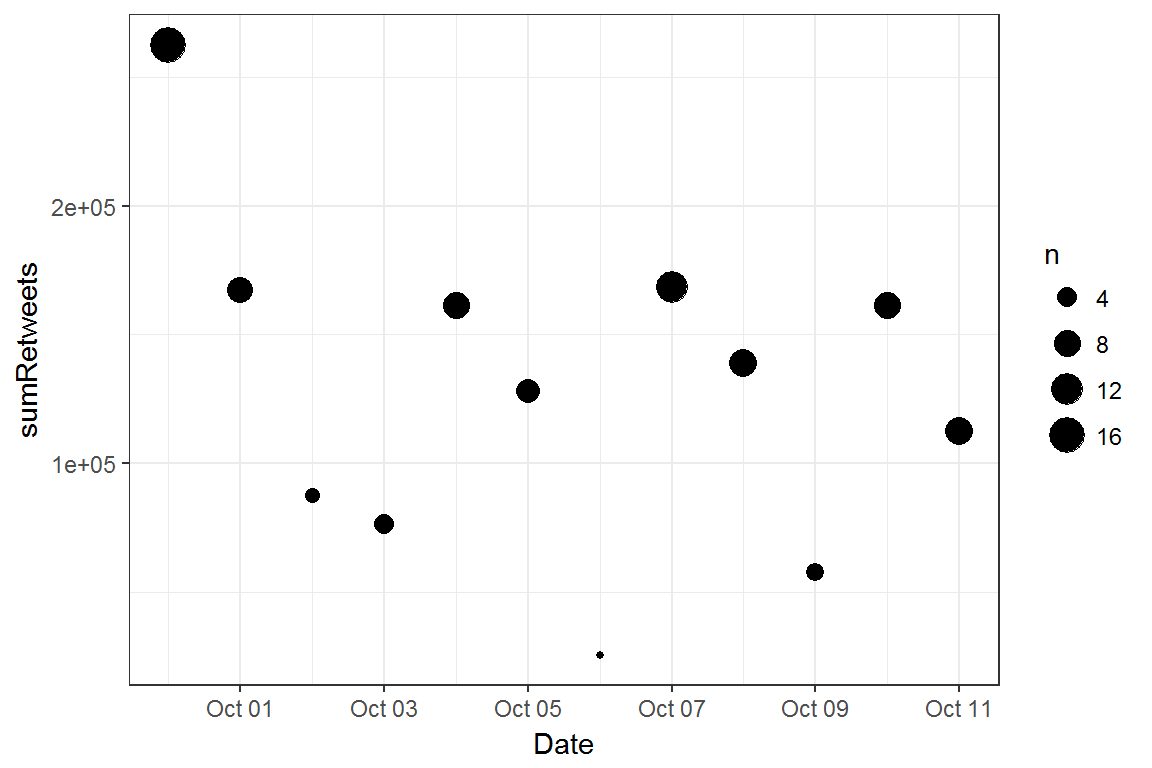
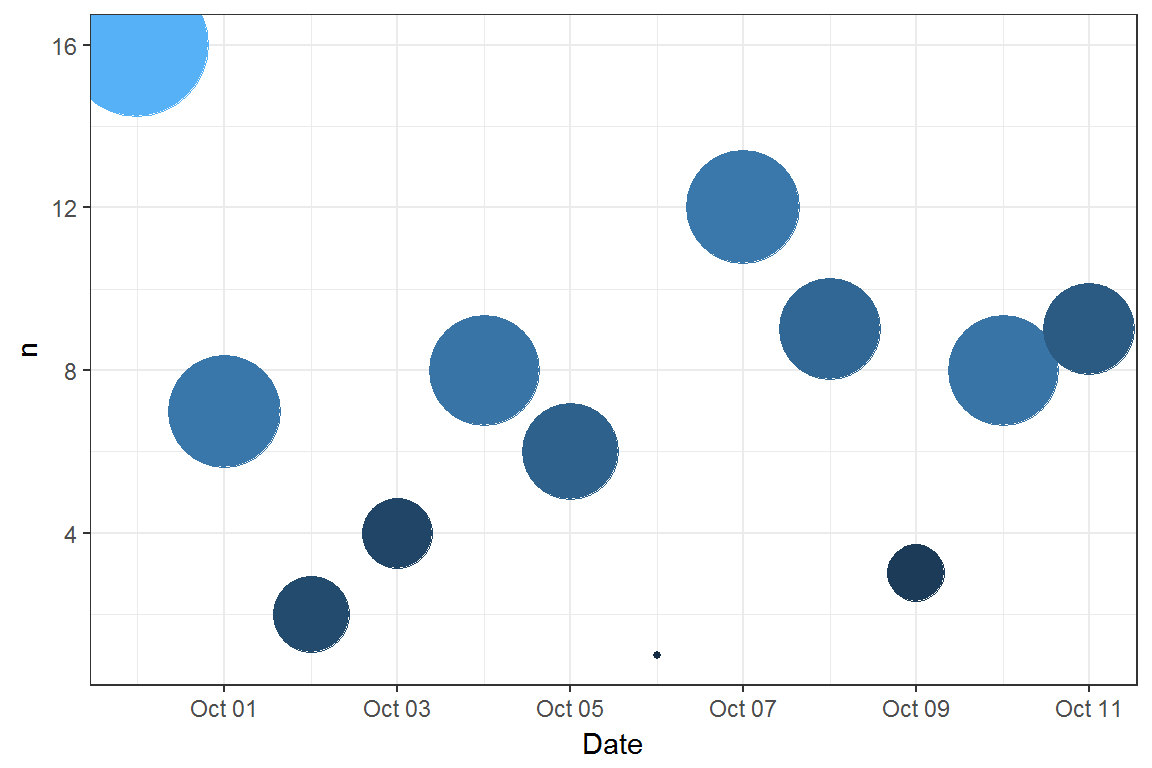
got rid of legend

diff --git a/Twitter.html b/Twitter.html
@@ -220,32 +220,32 @@ $(document).ready(function () {
 <tr class="odd">
 <td align="left">2017-10-11 13:55:44</td>
 <td align="left">With all of the Fake News coming out of NBC and the Networks, at what point is it appropriate to challenge their License? Bad for country!</td>
-<td align="right">13514</td>
+<td align="right">14271</td>
 </tr>
 <tr class="even">
 <td align="left">2017-10-11 13:45:22</td>
 <td align="left">Fake <span class="citation">@NBCNews</span> made up a story that I wanted a “tenfold” increase in our U.S. nuclear arsenal. Pure fiction, made up to demean. NBC = CNN!</td>
-<td align="right">11535</td>
+<td align="right">12072</td>
 </tr>
 <tr class="odd">
 <td align="left">2017-10-11 10:47:10</td>
 <td align="left">It is about time that Roger Goodell of the NFL is finally demanding that all players STAND for our great National Anthem-RESPECT OUR COUNTRY</td>
-<td align="right">13812</td>
+<td align="right">14255</td>
 </tr>
 <tr class="even">
 <td align="left">2017-10-11 10:36:37</td>
 <td align="left">The Democrats want MASSIVE tax increases &amp; soft, crime producing borders.The Republicans want the biggest tax cut in history &amp; the WALL!</td>
-<td align="right">13650</td>
+<td align="right">14019</td>
 </tr>
 <tr class="odd">
 <td align="left">2017-10-11 10:31:18</td>
 <td align="left">It would be really nice if the Fake News Media would report the virtually unprecedented Stock Market growth since the election.Need tax cuts</td>
-<td align="right">10941</td>
+<td align="right">11215</td>
 </tr>
 <tr class="even">
 <td align="left">2017-10-11 10:26:50</td>
 <td align="left">…if Congress gives us the massive tax cuts (and reform) I am asking for, those numbers will grow by leaps and bounds. #MAGA</td>
-<td align="right">8136</td>
+<td align="right">8356</td>
 </tr>
 </tbody>
 </table>
